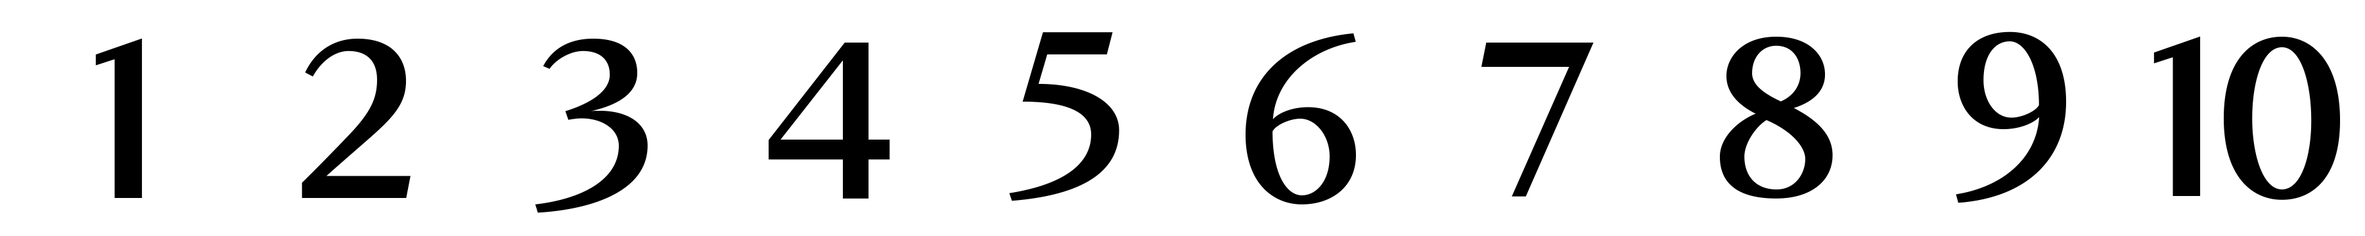
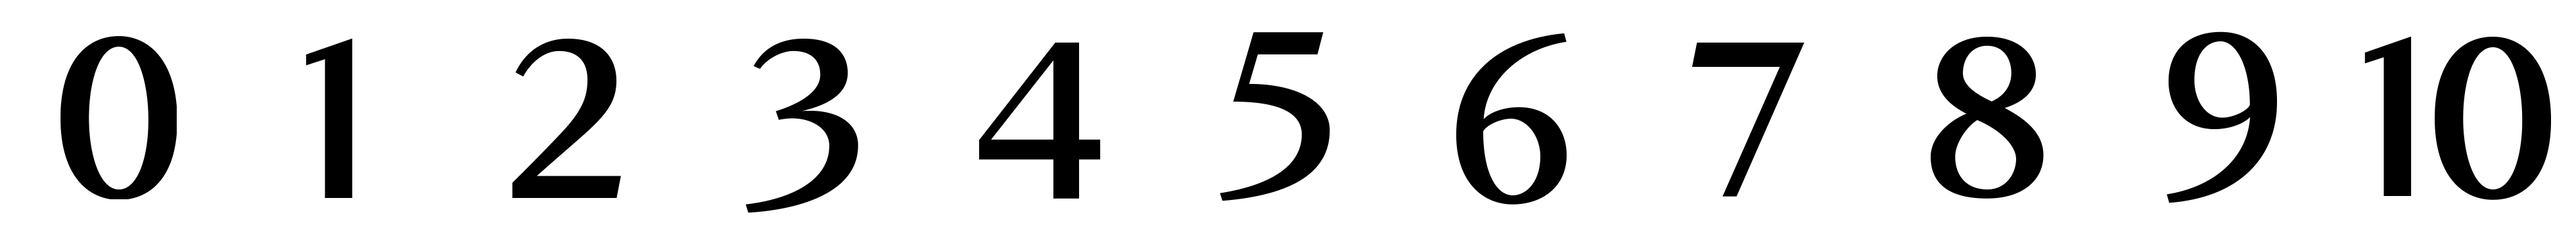
ギャラリーに数値を表示させた

Changed region(s): [[0.0933, 0.1222, 0.9956, 0.9167], [0.0, 0.1528, 0.0933, 0.8556]]

diff --git a/Project/GalleryBarManager.cpp b/Project/GalleryBarManager.cpp
@@ -2,15 +2,22 @@
 
 void GalleryBarManager::Initialize() {
 	LoadTexture();
-	_coinNumber.SetPosition();
-	_coinNumber.Initialize();
+	constexpr float maxCoinNumberSpace = 70;
+	_maxCoinValue.SetStats(&_numberTexture, _numberScale, _numberValue);
+	_maxCoinValue.SetPosition(Vector2(g_pGraphics->GetTargetWidth() - _numberTexture.GetWidth() * _numberScale / _numberValue - maxCoinNumberSpace, 50));
+	_maxCoinValue.SetValue(_numberValue - 1);
+
+	constexpr float coinNumberSpace = 200;
+	_coinNumber.SetStats(&_numberTexture, _numberScale, _numberValue);
+	_coinNumber.SetPosition(Vector2(g_pGraphics->GetTargetWidth() -_numberTexture.GetWidth()*_numberScale/_numberValue - coinNumberSpace,50));
+
 	_requiredCoinValueArray = new int[_barValue] {2, 4, 7, 10};
 	_backPos = Vector2(70, 300);
 }
 
 void GalleryBarManager::LoadTexture() {
 	_barBackGround.Load("stagepreview_base.png");
-	_coinNumber.LoadTextrue();
+	_numberTexture.Load("coinnum.png");
 	LoadBarTexture();
 	LoadGalleryTexture();
 }
@@ -74,6 +81,8 @@ void GalleryBarManager::SetTexture() {
 }
 
 void GalleryBarManager::Update() {
+	_coinNumber.SetValue(_gettedCoinValue);
+	
 }
 
 void GalleryBarManager::SetMousePos(Vector2 mousePos) {
@@ -94,7 +103,6 @@ void GalleryBarManager::PickUpBar() {
 }
 
 void GalleryBarManager::Pull() {
-	
 }
 
 CTexture* GalleryBarManager::GetPickTexture() {
@@ -106,11 +114,11 @@ CTexture* GalleryBarManager::GetPickTexture() {
 	return nullptr;
 }
 
-
 void GalleryBarManager::Render() {
 	for (int i = 0;i < _barValue;i++) {
 		_barArray[i].Render();
 	}
+	_maxCoinValue.Render();
 	_coinNumber.Render();
 }
 
@@ -124,7 +132,6 @@ void GalleryBarManager::Release() {
 	delete[] _lockedBarTexureArray;
 	delete[] _openedTexureArray;
 	delete[] _lockedTexureArray;
-	
+	_numberTexture.Release();
 	_barBackGround.Release();
-	_coinNumber.Release();
 }

diff --git a/Project/GalleryScene.cpp b/Project/GalleryScene.cpp
@@ -1,15 +1,16 @@
 #include "GalleryScene.h"
 #include "SceneManager.h"
 
-void GalleryScene::Initialize() {
+void GalleryScene::Initialize(){
 
 	LoadTexture();
 	_backGround.SetTextureStatus(&_backGroundTexture, FULLSCREEN);
 	_barManager.Initialize();
-	_galleryTexture.Initialize();
-
-	_galleryTexture.SetBackTextureHeight(_barManager.GetBackTextureSize().y);
 	_barManager.CreateBarArray();
+
+	_galleryTexture.Initialize();
+	_galleryTexture.SetBackTextureHeight(_barManager.GetBackTextureSize().y);
+	_galleryTexture.SetGalleryTexture(_barManager.GetPickTexture());
 
 	_titleButton.SetTexture(&_buttonTexture);
 	_titleButton.SetPosition(Vector2(100, 100));
@@ -29,7 +30,6 @@ void GalleryScene::ReLoad(){
 	_galleryTexture.ReLoad();
 }
 
-
 void GalleryScene::Update() {
 	_barManager.Update();
 }
@@ -37,7 +37,6 @@ void GalleryScene::Update() {
 void GalleryScene::SetMousePos(Vector2 mousePos){
 	_barManager.SetMousePos(mousePos);
 	_titleButton.SetMousePos(mousePos);
-
 }
 
 void GalleryScene::Push(){
@@ -50,7 +49,6 @@ void GalleryScene::Pull(){
 	_barManager.Pull();
 	_titleButton.Pull();
 }
-
 
 void GalleryScene::Render(){
 	_backGround.Render();

diff --git a/Project/GalleryBarManager.h b/Project/GalleryBarManager.h
@@ -1,10 +1,9 @@
 #pragma once
 #include	"Mof.h"
-#include	"string"
 #include	"GalleryBar.h"
 #include	"ContactFile.h"
-#include	"GetCoinNumber.h"
-#include "Trim.h"
+#include	"Number.h"
+#include	"Trim.h"
 
 class GalleryBarManager
 {
@@ -20,12 +19,16 @@ class GalleryBarManager
 
 	ContactFile _contactFile;
 
-	GetCoinNumber	_coinNumber;
 	CTexture* _lockedBarTexureArray;
 	CTexture* _openedBarTexureArray;
 	CTexture* _lockedTexureArray;
 	CTexture* _openedTexureArray;
 
+	Number	_coinNumber;
+	Number	_maxCoinValue;
+	const int _numberValue = 11;
+	const float _numberScale = 0.3f;
+	CTexture _numberTexture;
 public:
 	void Initialize();
 	void ReLoad();
@@ -36,8 +39,7 @@ public:
 	void Pull();
 	void Update();
  	void AddCoinValue() { 
-		_gettedCoinValue++; 
-		_coinNumber.SetCoinNumberValue(_gettedCoinValue);
+		_gettedCoinValue++;
 	}
 
 	void Render();

diff --git a/Project/GalleryBar.cpp b/Project/GalleryBar.cpp
@@ -4,7 +4,6 @@ void GalleryBar::Initialize() {
 }
 
 void GalleryBar::ReLoad() {
-
 }
 
 void GalleryBar::SetBaseTexture(CTexture* texture) {
@@ -18,7 +17,6 @@ void GalleryBar::CalcuPosition() {
 }
 
 void GalleryBar::Update() {
-
 }
 
 void GalleryBar::PickUpFlg(bool flg) {
@@ -26,7 +24,6 @@ void GalleryBar::PickUpFlg(bool flg) {
 	_scale = flg ? _baseScale * _largeScale : _baseScale;
 	CalcuPosition();
 }
-
 
 bool GalleryBar::CheckOnMouse(Vector2 mousePos) {
 	CRectangle rect = CRectangle(_pos.x, _pos.y, _pos.x + _baseTexture->GetWidth() * _scale, _pos.y + _baseTexture->GetHeight() * _scale);

diff --git a/Project/GalleryTexture.cpp b/Project/GalleryTexture.cpp
@@ -12,7 +12,6 @@ void GalleryTexture::LoadTexture(){
 }
 
 void GalleryTexture::ReLoad(){
-
 }
 
 void GalleryTexture::SetGalleryTexture(CTexture* texture) {
@@ -29,8 +28,9 @@ void GalleryTexture::CalcuGalleryScale() {
 
 void GalleryTexture::Render(){
 	_backFlameTexture.Render(_flamePos.x, _flamePos.y);
-	if (_galleryTexture != nullptr)_galleryTexture->RenderScale(_galleryPos.x, _galleryPos.y, _galleryScale);
-	
+	if (_galleryTexture != nullptr){
+		_galleryTexture->RenderScale(_galleryPos.x, _galleryPos.y, _galleryScale);
+	}
 }
 
 void GalleryTexture::Release(){

diff --git a/Project/GalleryBar.h b/Project/GalleryBar.h
@@ -1,6 +1,5 @@
 #pragma once
 #include	"Mof.h"
-#include	"string"
 
 class GalleryBar
 {
@@ -9,7 +8,6 @@ class GalleryBar
 	float _baseScale, _scale;
 	const float _largeScale = 1.1f;
 	bool _pickUp;
-
 public:
 	void Initialize();
 	void ReLoad();
@@ -23,7 +21,6 @@ public:
 	void Release();
 	bool CheckOnMouse(Vector2 mousePos);
 	bool IsPickUp() const{return _pickUp;}
-
 private:
 	void CalcuPosition();
 };
